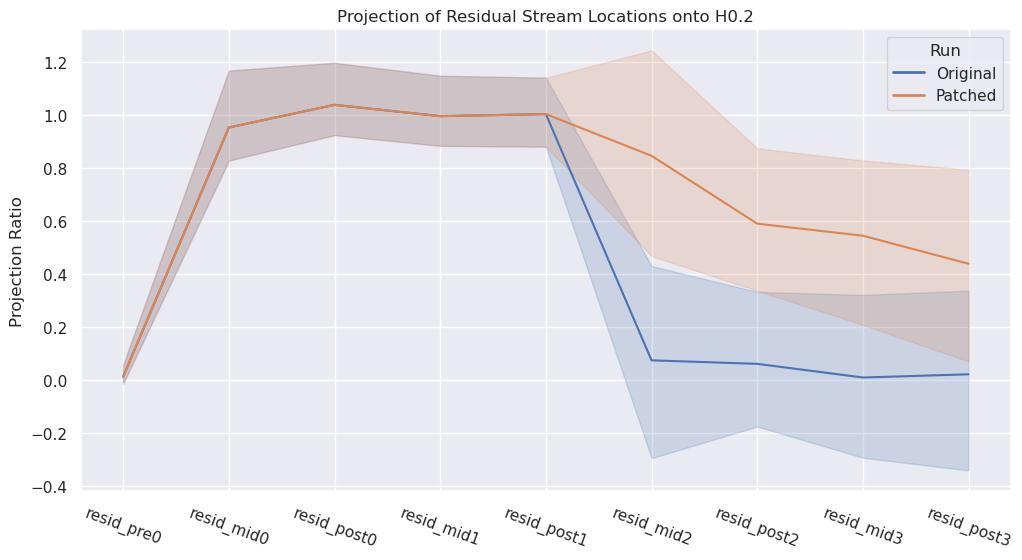
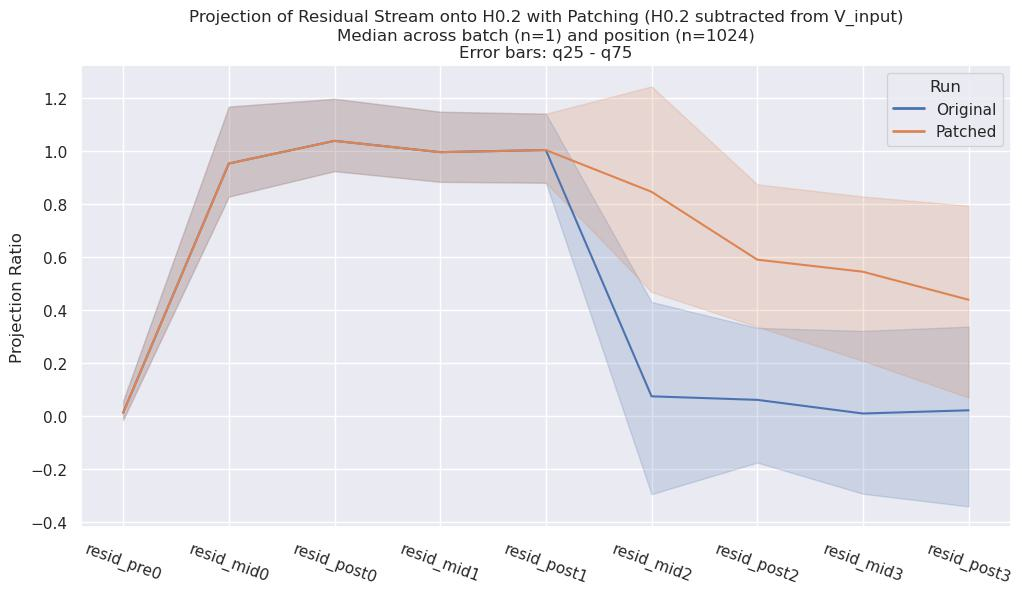
edit plots

diff --git a/figure_recreation/fig1_resid_onto_H0_2_lineplot.py b/figure_recreation/fig1_resid_onto_H0_2_lineplot.py
@@ -1,0 +1,123 @@
+#%%
+# Gross code to allow for importing from parent directory
+import os, sys
+from pathlib import Path
+parent_path = str(Path(os.getcwd()).parent)
+if parent_path not in sys.path:
+    sys.path.append(parent_path)
+
+# Imports
+import gc
+import torch
+import einops
+import pandas as pd
+import numpy as np
+
+from transformer_lens import HookedTransformer
+from load_data import get_prompts_t
+from plotting import ntensor_to_long
+from jamesd_utils import projection_ratio
+
+import matplotlib.pyplot as plt
+import matplotlib.lines as mlines
+import seaborn as sns
+
+
+# Global settings and variables
+sns.set()
+torch.set_grad_enabled(False)
+device = "cpu"
+
+N_TEXT_PROMPTS = 1
+N_CODE_PROMPTS = 0
+FIG_FILEPATH = "figs/fig1_resid_onto_H0_2_lineplot.jpg"
+
+# Transformer Lens model names:
+# https://github.com/neelnanda-io/TransformerLens/blob/3cd943628b5c415585c8ef100f65989f6adc7f75/transformer_lens/loading_from_pretrained.py#L127
+MODEL_NAME = "gelu-4l"
+
+
+#%%
+prompts = get_prompts_t(
+    n_text_prompts=N_TEXT_PROMPTS,
+    n_code_prompts=N_CODE_PROMPTS,
+).to(device)
+# prompts = model.to_tokens("It's in the shelf, either on the top or the").to(device)
+
+# Throws a warning if there is a non-unique prompt
+if not (torch.unique(prompts, dim=0).shape == prompts.shape):
+    print("WARNING: at least 1 prompt is not unique")
+
+#%%
+model = HookedTransformer.from_pretrained(MODEL_NAME, device=device)
+model.cfg.use_attn_result = True
+
+#%%
+# Generate names of residual stream locations
+resid_names = ["blocks.0.hook_resid_pre"]
+for i in range(model.cfg.n_layers):
+    resid_names.append(f"blocks.{i}.hook_resid_mid")
+    resid_names.append(f"blocks.{i}.hook_resid_post")
+
+#%%
+# Get the original output of H0.2
+_, cache = model.run_with_cache(
+    prompts,
+    names_filter=lambda name: (
+        "blocks.0.attn.hook_result" in name or
+        name in resid_names
+    ),
+    device=device,
+)
+# Select head 2 but keep the head dimension
+H0_2 = einops.rearrange(
+    cache["blocks.0.attn.hook_result"][:, :, 2:3, :],
+    "batch pos head d_model -> head batch pos d_model",
+)  # shape: (head, batch, pos, d_model)
+resids = torch.stack(
+    [cache[name] for name in resid_names],
+    dim=0,
+)  # shape: (resid, batch, pos, d_model)
+
+del _
+gc.collect()
+
+#%%
+df = ntensor_to_long(
+    projection_ratio(resids, H0_2),
+    value_name="projection_ratio",
+    dim_names=["resid", "batch", "pos"],
+)
+
+resid_names_plot = ["resid_pre0"]
+for i in range(model.cfg.n_layers):
+    resid_names_plot.append(f"resid_mid{i}")
+    resid_names_plot.append(f"resid_post{i}")
+
+#%%
+fig, ax = plt.subplots(figsize=(12, 6))
+
+sns.lineplot(
+    data=df,
+    x="resid",
+    y="projection_ratio",
+    estimator="median",
+    errorbar=("pi", 75),
+    ax=ax,
+)
+ax.set_title(
+    f"Projection of Residual Stream onto H0.2\n"
+    f"Median across batch (n={prompts.shape[0]}) and position (n={prompts.shape[1]})\n"
+    f"Error bars: q25 - q75"
+)
+ax.set_ylabel("Projection Ratio")
+ax.set_xlabel("")
+ax.set_xticks(
+    ticks=range(len(resid_names_plot)),
+    labels=resid_names_plot,
+    rotation=-20,
+);
+
+#%%
+fig.savefig(FIG_FILEPATH, bbox_inches="tight")
+print(f"Saved figure to {FIG_FILEPATH}")

diff --git a/figure_recreation/fig5_attn_pattern_H0_2.py b/figure_recreation/fig5_attn_pattern_H0_2.py
@@ -74,10 +74,11 @@ prompts_text = [
     "otaijpsd7g piaujr[oeaim [oaia[ oia oiu pgaoeirao ih i]]]",
 ]
 
+n_tokens = 20
 prompts_rand = torch.tensor(
     model.tokenizer(prompts_text, padding=True)["input_ids"],
     device=device,
-)[:, :20]
+)[:, :n_tokens]
 
 _, cache = model.run_with_cache(
     prompts_rand,
@@ -107,6 +108,9 @@ for i in range(attn_patterns.shape[0]):
     ax_a[row, col].set_xticks([])
     ax_a[row, col].set_yticks([])
 
+fig_a.suptitle(
+    f"Attention Patterns of H0.2 from Randomly Sampled Prompts (First {n_tokens} Positions)"
+)
 fig_a.tight_layout()
 
 #%%
@@ -157,14 +161,14 @@ sns.lineplot(
     x="pos",
     y="attn_prob",
     estimator="median",
-    errorbar=("pi", 75),
+    errorbar=("pi", 100),
     ax=ax_b[0],
 )
 ax_b[0].set_xlabel("Query Position of BOS")
 ax_b[0].set_ylabel("Attention Probability")
 ax_b[0].set_title(
-    f"Attention Probabilities in H0.2\n"
-    f"Batch size: {prompts.shape[0]}, error bars: q25-q75"
+    f"Attention Probabilities in H0.2 of the BOS Column\n"
+    f"Batch size: {prompts.shape[0]}, error bars: min-max"
 )
 
 # Subplot 2
@@ -173,14 +177,14 @@ sns.lineplot(
     x="nonbos_pos",
     y="attn_prob",
     estimator="median",
-    errorbar=("pi", 75),
+    errorbar=("pi", 100),
     ax=ax_b[1],
 )
 ax_b[1].set_xlabel("Position of Flattened Lower Triangular without BOS Column")
 ax_b[1].set_ylabel("Attention Probability")
 ax_b[1].set_title(
     f"Attention Probabilities when Attending to non-BOS in H0.2\n"
-    f"Batch size: {prompts.shape[0]}, error bars: q25-q75"
+    f"Batch size: {prompts.shape[0]}, error bars: min-max"
 )
 
 fig_b.tight_layout()

diff --git a/figure_recreation/fig9_DLA_barplots.py b/figure_recreation/fig9_DLA_barplots.py
@@ -66,7 +66,9 @@ examples = [
 ]
 
 #%%
+n_prompts = N_TEXT_PROMPTS + N_CODE_PROMPTS
 prob_diffs = []
+
 for example in examples:
     text = example['text']
     answer = example['answer']
@@ -75,7 +77,6 @@ for example in examples:
     ori_tokens = model.to_tokens(text)
     answer_token_id = model.to_tokens(answer, prepend_bos=False)[0][0].item()
 
-    n_prompts = N_TEXT_PROMPTS + N_CODE_PROMPTS
     for random_prompt_idx in range(n_prompts):
         corrupted_tokens = prompts[random_prompt_idx:random_prompt_idx+1, :ori_tokens.shape[-1]]
 
@@ -180,7 +181,7 @@ for i, example in enumerate(examples):
     )
     ax[i].set_title(
         f"Prompt {i+1}\n"
-        f"Original Probabilty: {orig_probs[i]:.2f}"
+        f'Original Probabilty: {orig_probs[i]:.2f}'
     )
     ax[i].set_xlabel("")
     if i == 0:
@@ -188,6 +189,13 @@ for i, example in enumerate(examples):
     else:
         ax[i].set_ylabel("")
     ax[i].set_xticklabels(["Resample Ablation", "DLA"])
+
+fig.suptitle(
+    f"Comparison of Contributions to Correct Token Probabiity\n"
+    f"Resample Ablation vs. DLA applied to H0.2\n"
+    f"Ablation done with {n_prompts} random prompts, applied to only the last position\n"
+    f"Error bars: q25 - q75"
+)
 fig.tight_layout()
 
 #%%

diff --git a/figure_recreation/fig2_H0_2_cleanup_barplot.py b/figure_recreation/fig2_H0_2_cleanup_barplot.py
@@ -107,11 +107,11 @@ torch.Size([36, 100, 1024, 512])
 torch.Size([1, 100, 1024, 512])
 
 # Calculate reinforcement ratios off all nodes projected onto the writer node
-reinf_ratios = projection_ratio(all_nodes, writer_node)  # shape: (resid node batch pos)
+proj_ratios = projection_ratio(all_nodes, writer_node)  # shape: (resid node batch pos)
 
 # Get RRs into a long format df
 df = ntensor_to_long(
-    reinf_ratios,
+    proj_ratios,
     value_name="projection_ratio",
     dim_names=["node", "batch", "pos"],
 )
@@ -149,8 +149,8 @@ for tick in ax.get_xticklabels():
 
 ax.set_title(
     f"Projections Ratios of All Nodes (except {WRITER_NAME}) Projected onto {WRITER_NAME}\n"
-    f"Mean across batch (n={reinf_ratios.shape[1]}) and position (n={reinf_ratios.shape[2]})\n"
-    f"Error bar: q25 - q75"
+    f"Median across batch (n={proj_ratios.shape[1]}) and position (n={proj_ratios.shape[2]})\n"
+    f"Error bars: q25 - q75"
 )
 ax.set_xlabel("Node Name")
 ax.set_ylabel("Projection Ratio");

diff --git a/figure_recreation/fig8_bos_nonbos_proj_ratios.py b/figure_recreation/fig8_bos_nonbos_proj_ratios.py
@@ -170,7 +170,11 @@ sns.lineplot(
 )
 ax[0].axhline(0, color="black", linestyle="--")
 ax[0].set_ylabel("Projection Ratio")
-ax[0].set_title("Projection of sum(H2.X) onto H0.2 BOS only (error bars: q25 - q75)")
+ax[0].set_title(
+    f"Projection of sum(H2.X) onto H0.2 BOS only\n"
+    f"Median across batch (n={prompts.shape[0]}) and position (n={prompts.shape[1]})\n"
+    f"Error bars: q25 - q75"
+)
 
 # Subplot 2: non-BOS
 sns.lineplot(
@@ -184,7 +188,11 @@ sns.lineplot(
 ax[1].axhline(0, color="black", linestyle="--")
 ax[1].set_xlabel("Position")
 ax[1].set_ylabel("Projection Ratio")
-ax[1].set_title("Projection of sum(H2.X) onto H0.2 non-BOS only (error bars: q25 - q75)")
+ax[1].set_title(
+    f"Projection of sum(H2.X) onto H0.2 non-BOS only\n"
+    f"Median across batch (n={prompts.shape[0]}) and position (n={prompts.shape[1]})\n"
+    f"Error bars: q25 - q75"
+)
 
 fig.tight_layout()
 

diff --git a/figure_recreation/fig4_H2_X_lineplots.py b/figure_recreation/fig4_H2_X_lineplots.py
@@ -89,10 +89,13 @@ sns.lineplot(
     ax=ax[0],
 )
 ax[0].axhline(0, ls="--", color="black", alpha=0.4)
-ax[0].set_title("Projections of H2.X onto H0.2")
+ax[0].set_title(
+    f"Projections of H2.X onto H0.2\n"
+    f"Median across batch (n={prompts.shape[0]}) and position (n={prompts.shape[1]})\n"
+)
 ax[0].set_xlabel("Position")
 ax[0].set_ylabel("Projection Ratio")
-ax[0].legend(title="X")
+ax[0].legend(title="Head")
 
 # Subplot 2
 sns.lineplot(
@@ -104,7 +107,11 @@ sns.lineplot(
     ax=ax[1],
 )
 ax[1].axhline(0, ls="--", color="black", alpha=0.4)
-ax[1].set_title("Projection of sum(H2.X) onto H0.2 (error bars: q25 - q75)")
+ax[1].set_title(
+    f"Projection of sum(H2.X) onto H0.2\n"
+    f"Median across batch (n={prompts.shape[0]}) and position (n={prompts.shape[1]})\n"
+    f"Error bars: q25 - q75"
+)
 ax[1].set_ylabel("Projection Ratio")
 
 fig.tight_layout()

diff --git a/figure_recreation/fig3_patch_v_input_cleaners.py b/figure_recreation/fig3_patch_v_input_cleaners.py
@@ -172,7 +172,11 @@ sns.lineplot(
     errorbar=("pi", 75),
     ax=ax_a,
 )
-ax_a.set_title("Projection of Residual Stream Locations onto H0.2")
+ax_a.set_title(
+    f"Projection of Residual Stream onto H0.2 with Patching (H0.2 subtracted from V_input)\n"
+    f"Median across batch (n={prompts.shape[0]}) and position (n={prompts.shape[1]})\n"
+    f"Error bars: q25 - q75"
+)
 ax_a.set_ylabel("Projection Ratio")
 ax_a.set_xlabel("")
 ax_a.set_xticks(
@@ -206,8 +210,9 @@ sns.barplot(
     ax=ax_b,
 )
 ax_b.set_title(
-    "Projection of H2.X onto H0.2\n"
-    "Error bars: q25 - q75"
+    f"Projection of H2.X onto H0.2 with Patching (H0.2 subtracted from V_input)\n"
+    f"Median across batch (n={prompts.shape[0]}) and position (n={prompts.shape[1]})\n"
+    f"Error bars: q25 - q75"
 )
 ax_b.set_ylabel("Projection Ratio")
 ax_b.set_xlabel("")

diff --git a/figure_recreation/apdx_resid_onto_node_plotly.py b/figure_recreation/apdx_resid_onto_node_plotly.py
@@ -30,7 +30,7 @@ device = "cpu"
 
 N_TEXT_PROMPTS = 2
 N_CODE_PROMPTS = 1
-FIG_FILEPATH = "figs/fig1_resid_onto_node_plotly.html"
+FIG_FILEPATH = "figs/apdx_resid_onto_node_plotly.html"
 
 # Transformer Lens model names:
 # https://github.com/neelnanda-io/TransformerLens/blob/3cd943628b5c415585c8ef100f65989f6adc7f75/transformer_lens/loading_from_pretrained.py#L127
